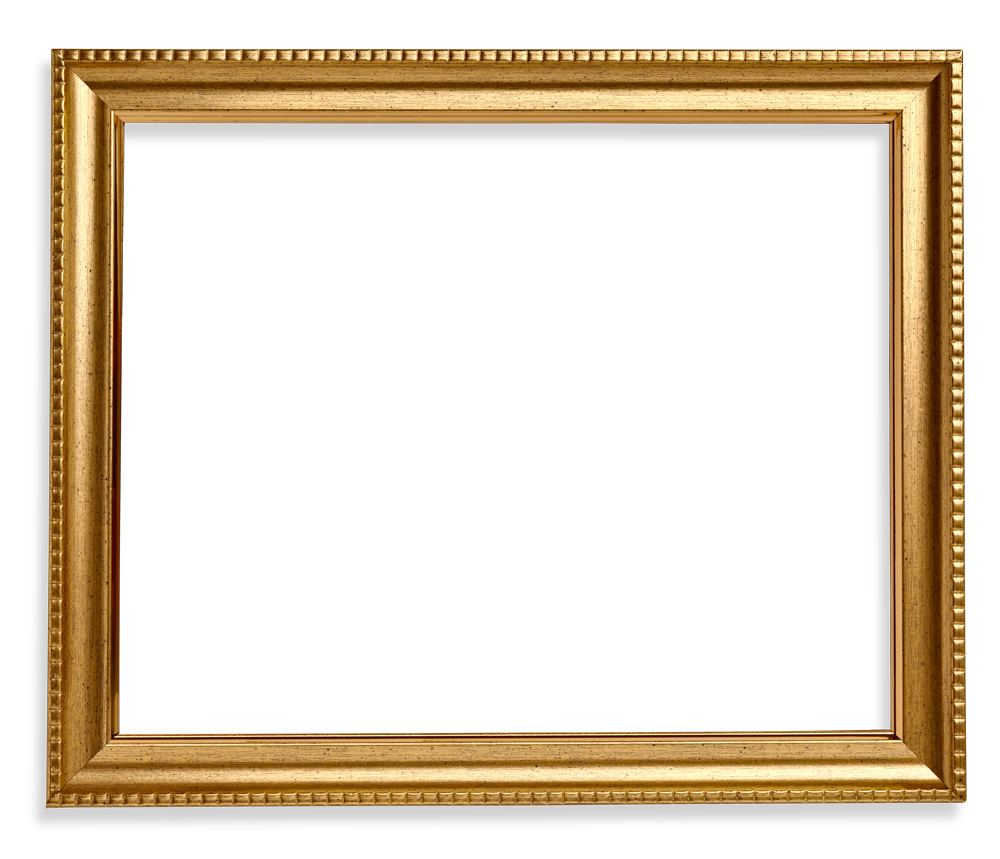
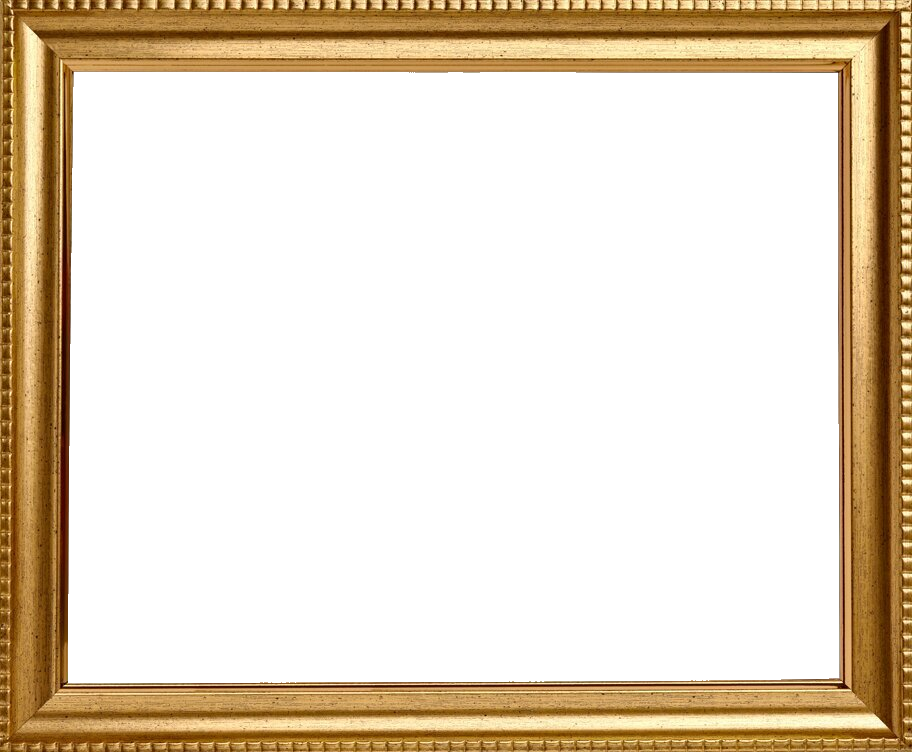
Finish About Us page - Add frame to all art pieces - Add frame as optional

diff --git a/src/components/AboutUs/index.tsx b/src/components/AboutUs/index.tsx
@@ -2,21 +2,40 @@ import { SectionTitle } from "../SectionTitle";
 import { Paragraph } from "../Paragraph";
 import { ArtDisplay } from "../ArtDisplay";
 import { ArtPieceProps } from "../../types/artPiece";
+import { IconList } from "../IconList";
 
-import { Container, Wrapper } from "./AboutUsElements";
+import { Pinterest, Instagram } from "../../assets";
+
+import {
+  Container,
+  Wrapper,
+  ParagraphWrapper,
+  SocialsWrapper,
+  BrandName,
+} from "./AboutUsElements";
 
 export const AboutUs = ({ artPieces }: ArtPieceProps) => {
   return (
     <Wrapper>
       <Container>
         <SectionTitle title="About us" type="Section" />
-        <Paragraph
-          title="WHY"
-          text="Lorem ipsum dolor sit amet, consectetur adipiscing elit. Donec augue nibh, commodo posuere ligula vel, tristique suscipit elit. Sed pretium lacus ut turpis iaculis cursus. Nullam tincidunt tortor tellus, vel mollis ligula tincidunt."
-        />
+        <ParagraphWrapper>
+          <Paragraph
+            title="WHY"
+            text="Lorem ipsum dolor sit amet, consectetur adipiscing elit. Donec augue nibh, commodo posuere ligula vel, tristique suscipit elit. Sed pretium lacus ut turpis iaculis cursus. Nullam tincidunt tortor tellus, vel mollis ligula tincidunt."
+          />
+          <Paragraph
+            title="Gallery"
+            text="Condimentum. Pellentesque pulvinar accumsan enim, eu commodo ipsum condimentum eget. Quisque vulputate velit non sagittis congue. Nullam tristique metus non lorem hendrerit egestas. Proin placerat dui eget turpis ultricies hendrerit. Maecenas maximus condimentum."
+          />
+          <SocialsWrapper>
+            <BrandName>SIMPLISTIK</BrandName>
+            <IconList height="35px" icons={[Pinterest, Instagram]} />
+          </SocialsWrapper>
+        </ParagraphWrapper>
       </Container>
       <Container>
-        <ArtDisplay artPieces={artPieces} />
+        <ArtDisplay plaque={false} artPieces={artPieces} />
       </Container>
     </Wrapper>
   );

diff --git a/src/components/ArtDisplay/index.tsx b/src/components/ArtDisplay/index.tsx
@@ -1,29 +1,35 @@
 import {
   HighlightDisplayContainer,
   ArtImg,
-  ImgWrapper,
+  PieceWrapper,
+  FrameWrapper,
+  ArtFrame,
 } from "./ArtDisplayElements";
 
 import { Plaque } from "../Plaque";
 import { ArtPieceProps } from "../../types/artPiece";
 
-export const ArtDisplay = ({ artPieces }: ArtPieceProps) => {
-  console.log(artPieces);
+export const ArtDisplay = ({ artPieces, plaque }: ArtPieceProps) => {
   if (artPieces.length === 0) {
-    return null; // or return some default component or message
+    return null;
   }
   return (
     <HighlightDisplayContainer>
       {artPieces.map((piece, index) => {
         return (
-          <ImgWrapper key={index}>
-            <ArtImg src={piece.asset} highlight={piece.highlight} />
-            <Plaque
-              artist={piece.artist.name}
-              pieceName={piece.name}
-              pieceDesc={piece.description}
-            />
-          </ImgWrapper>
+          <PieceWrapper key={index}>
+            <FrameWrapper>
+              <ArtImg src={piece.asset} highlight={piece.highlight} />
+              <ArtFrame src={piece.frame} highlight={piece.highlight} />
+            </FrameWrapper>
+            {plaque === false ? null : (
+              <Plaque
+                artist={piece.artist.name}
+                pieceName={piece.name}
+                pieceDesc={piece.description}
+              />
+            )}
+          </PieceWrapper>
         );
       })}
     </HighlightDisplayContainer>

diff --git a/src/components/ArtDisplay/ArtDisplayElements.ts b/src/components/ArtDisplay/ArtDisplayElements.ts
@@ -2,24 +2,41 @@ import styled from "styled-components";
 
 type Props = {
   highlight: boolean;
+  direction?: string;
 };
 
 export const HighlightDisplayContainer = styled.div`
   display: flex;
   justify-content: center;
   align-items: center;
+  margin-bottom: 20px;
 `;
 
-export const ImgWrapper = styled.div`
+export const PieceWrapper = styled.div`
   display: flex;
   flex-direction: column;
   align-self: flex-start;
   padding: 25px;
 `;
 
+export const FrameWrapper = styled.div`
+  position: relative;
+`;
+
 export const ArtImg = styled.img<Props>`
+  z-index: 1;
   object-fit: cover;
   width: ${(props) => (props.highlight ? "850px" : "500px")};
   height: ${(props) => (props.highlight ? "700px" : "400px")};
-  max-height: 100vh;
+`;
+
+export const ArtFrame = styled.img<Props>`
+  z-index: 2;
+  filter: drop-shadow(0px 11px 23px rgba(0, 0, 0, 0.7));
+  width: ${(props) => (props.highlight ? "850px" : "500px")};
+  height: ${(props) => (props.highlight ? "700px" : "400px")};
+  position: absolute;
+  object-fit: fill;
+  top: 0;
+  left: 0;
 `;

diff --git a/src/pages/landingPage.tsx b/src/pages/landingPage.tsx
@@ -20,8 +20,8 @@ export const LandingPage = ({ artPieces }: ArtPieceProps) => {
   useEffect(() => {
     const normalArtData = artPieces.filter((art) => !art.highlight);
     const highlightArtData = artPieces.filter((art) => art.highlight);
-    setHighlightArtPiece([highlightArtData[0]]);
     setNormalArtPiece(normalArtData.slice(0, 2));
+    setHighlightArtPiece([highlightArtData[0]]);
   }, [artPieces]);
 
   return (
@@ -35,10 +35,10 @@ export const LandingPage = ({ artPieces }: ArtPieceProps) => {
           subtitle="Explore the art"
           type="Main"
         />
-        <ArtDisplay artPieces={highlightArtPiece} />
-        <ArtDisplay artPieces={normalArtPiece} />
+        <ArtDisplay plaque={true} artPieces={highlightArtPiece} />
+        <ArtDisplay plaque={true} artPieces={normalArtPiece} />
         <Button>Full Gallery</Button>
-        <AboutUs artPieces={[artPieces[0]]} />
+        <AboutUs artPieces={[artPieces[9]]} />
       </Container>
     </>
   );

diff --git a/src/components/AboutUs/AboutUsElements.ts b/src/components/AboutUs/AboutUsElements.ts
@@ -1,5 +1,6 @@
 import styled from "styled-components";
 import { SecondaryBGColor } from "../../styles/colors";
+import { FontDefault } from "../../styles/main";
 
 export const Wrapper = styled.div`
   display: flex;
@@ -8,6 +9,21 @@ export const Wrapper = styled.div`
 
 export const Container = styled.div`
   background-color: ${SecondaryBGColor};
+
   margin-top: 80px;
   padding: 25px 80px;
+`;
+
+export const ParagraphWrapper = styled.div`
+  display: flex;
+  flex-direction: column;
+`;
+
+export const SocialsWrapper = styled.div`
+  display: flex;
+  align-items: center;
+`;
+
+export const BrandName = styled(FontDefault)`
+  margin-right: 20px;
 `;

diff --git a/src/components/Paragraph/ParagraphElements.ts b/src/components/Paragraph/ParagraphElements.ts
@@ -7,13 +7,12 @@ export const Container = styled.div`
   background-color: ${SecondaryBGColor};
   flex-direction: column;
   align-items: flex-start;
-  width: 100%;
 `;
 
 export const P = styled(FontDefault)`
   font-family: "Roboto";
   line-height: 130%;
-  width: 50%;
+  margin-bottom: 50px;
 `;
 
 export const PTitle = styled(FontDefault).attrs({ as: "h3" })`

diff --git a/src/components/Navbar/index.tsx b/src/components/Navbar/index.tsx
@@ -18,7 +18,7 @@ export const Navbar = () => (
       <ListElement>Contact</ListElement>
     </NavList>
     <ItemWrapper>
-      <IconList icons={[Search, Favorite]} />
+      <IconList height="30px" icons={[Search, Favorite]} />
       <VerticalDivider />
       <BrandSlogan name="Simplistik" slogan="Contemporary art, simplified" />
     </ItemWrapper>

diff --git a/src/types/artPiece.ts b/src/types/artPiece.ts
@@ -2,6 +2,7 @@ export interface ArtPiece {
   id: number;
   asset: string;
   name: string;
+  frame: string;
   description: string;
   year: number;
   highlight: boolean;
@@ -14,5 +15,5 @@ export interface ArtPiece {
 
 export interface ArtPieceProps {
   artPieces: ArtPiece[];
-  direction?: "vertical" | "horizontal";
+  plaque?: boolean;
 }

diff --git a/src/components/IconList/IconListElements.ts b/src/components/IconList/IconListElements.ts
@@ -21,5 +21,5 @@ export const GridItem = styled.div`
 
 export const Img = styled.img<ImgProps>`
   height: ${(props) => (props.height ? props.height : "100%")};
-  max-height: 30px;
+  max-height: 35px;
 `;
